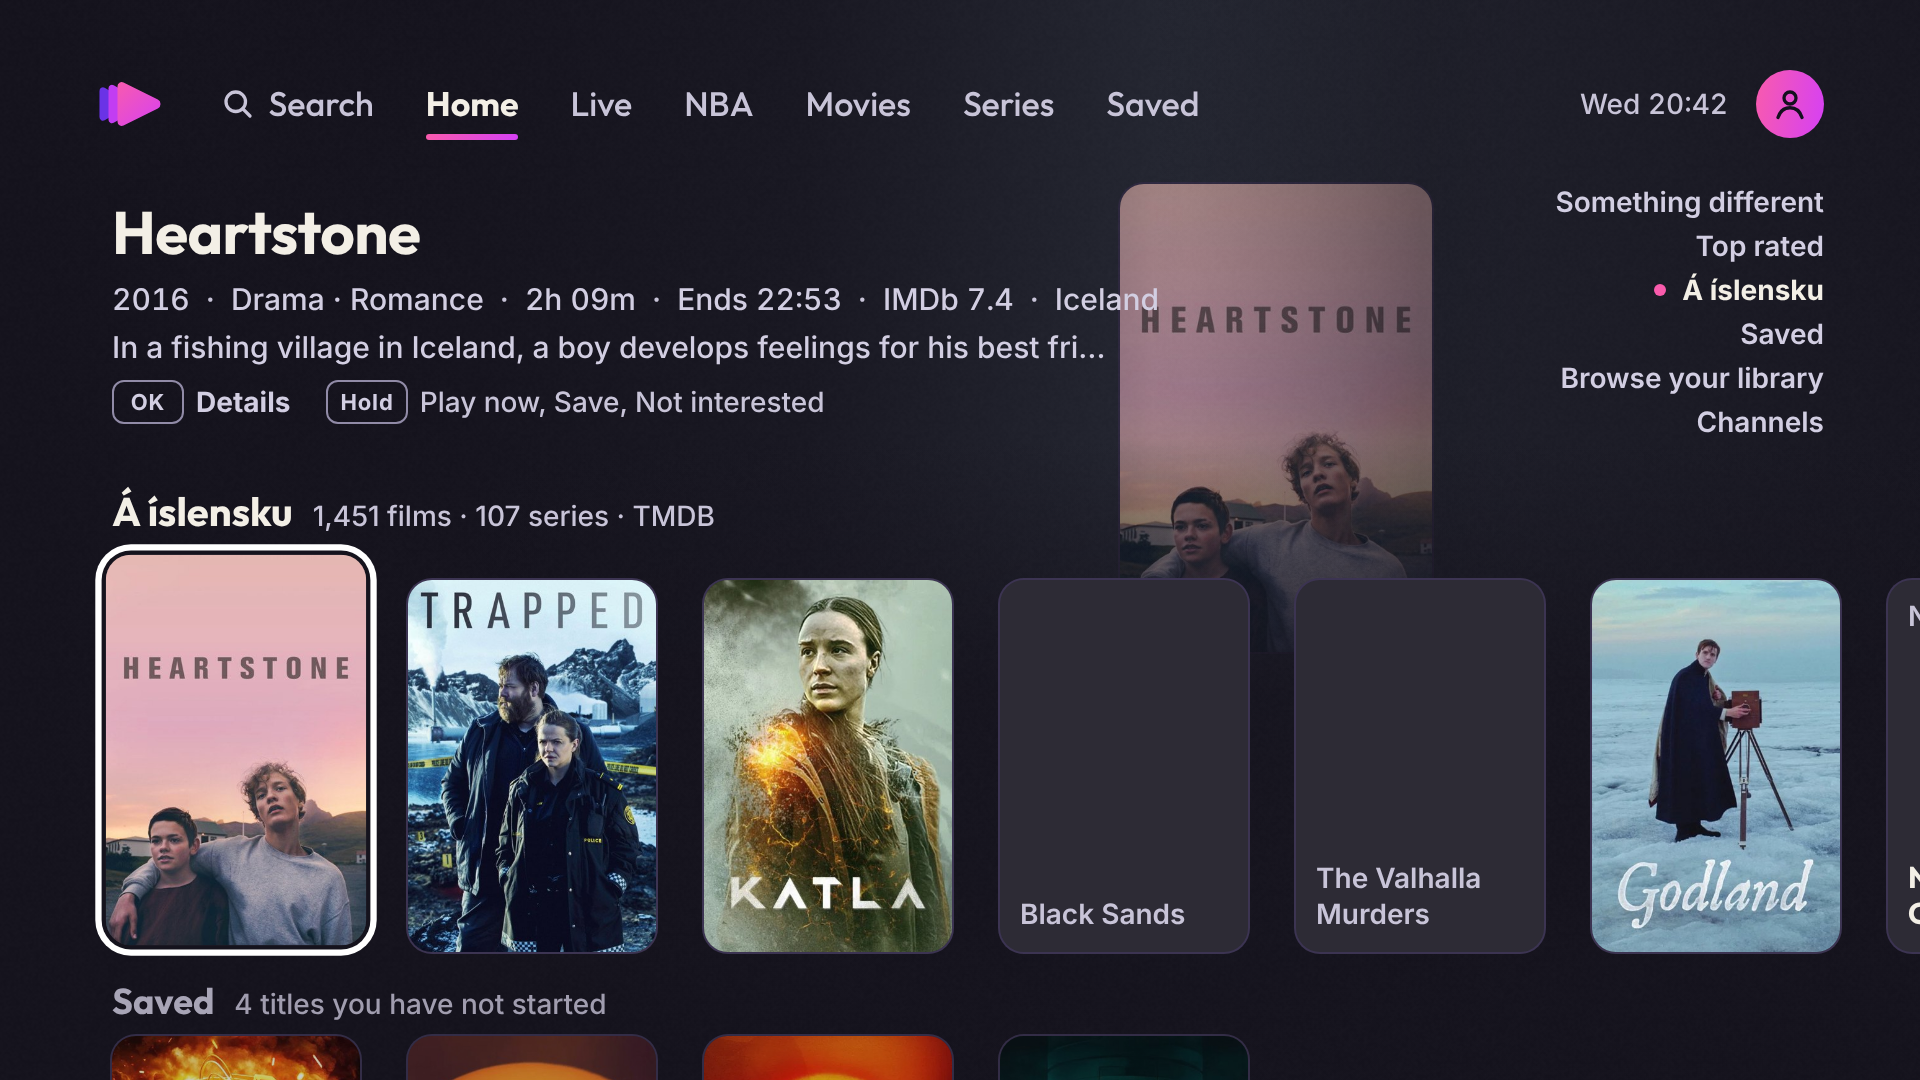
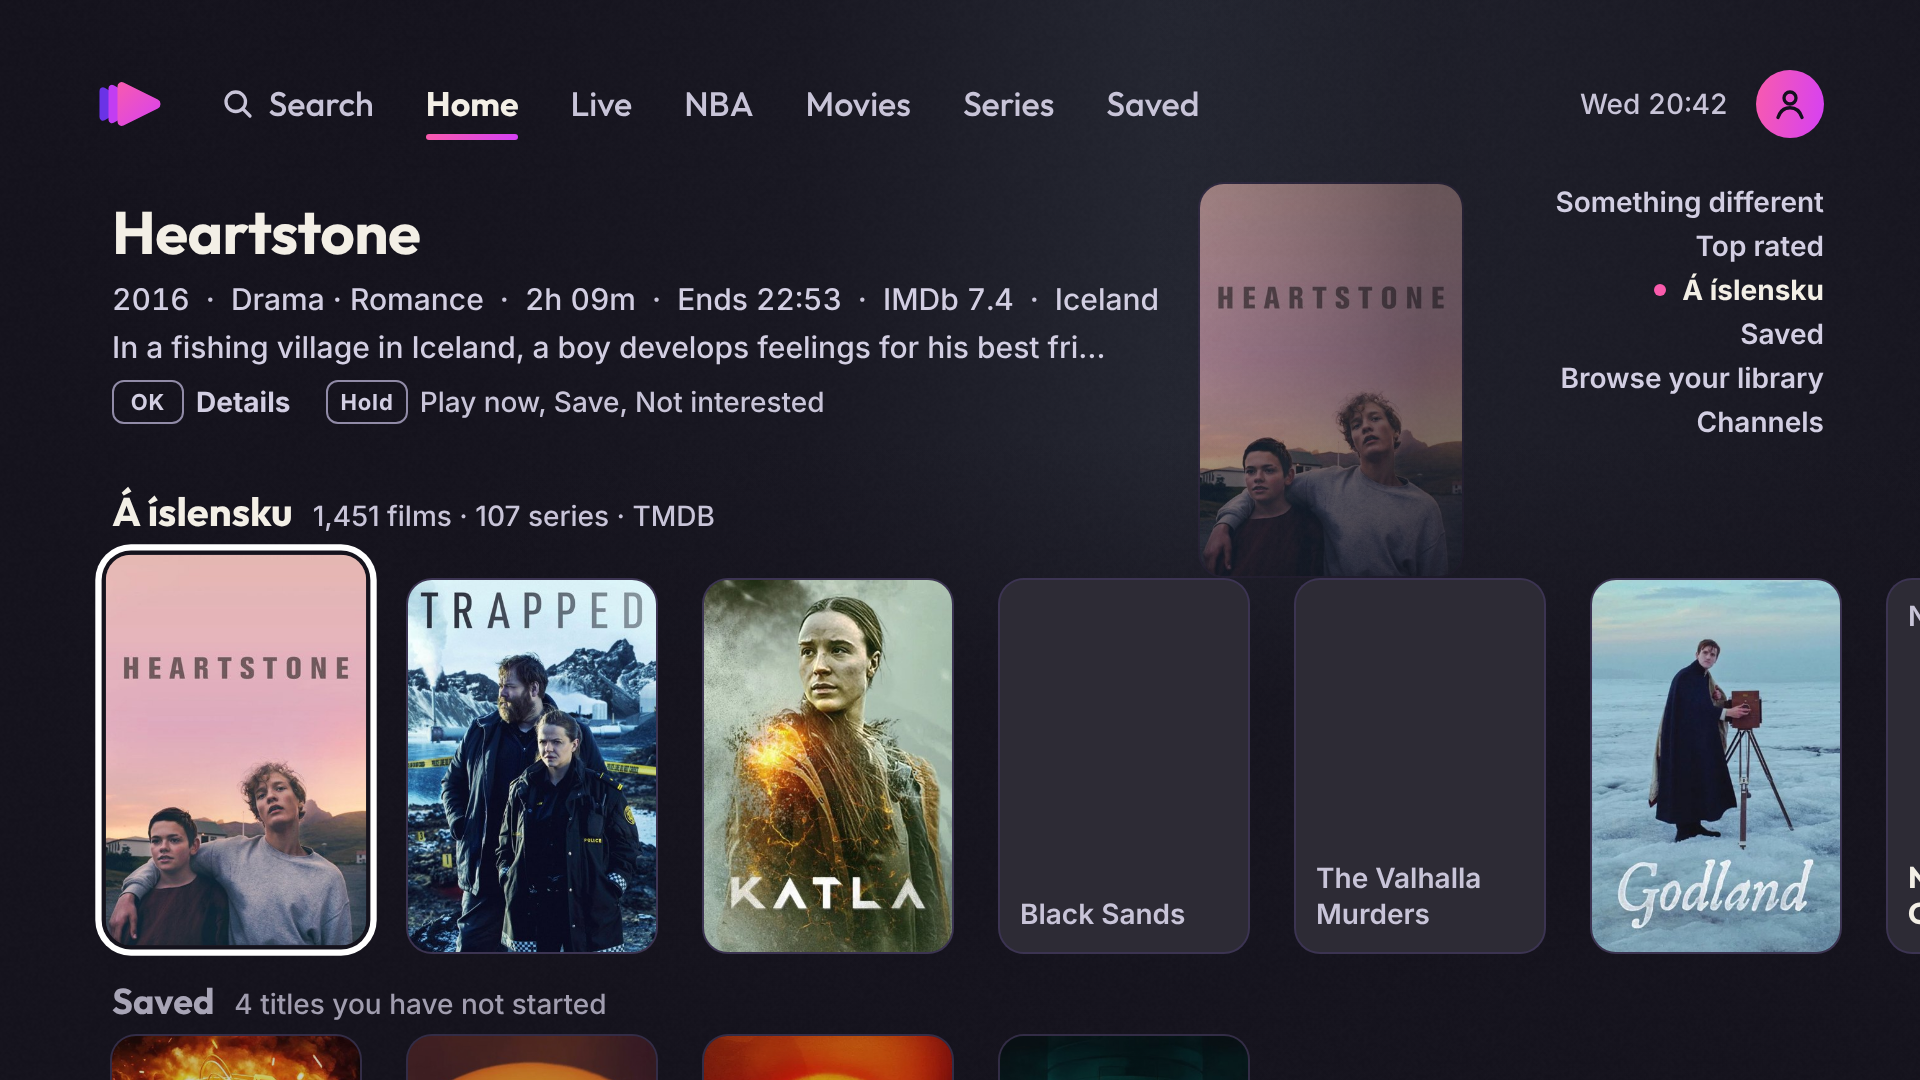
Home final v1.1: the upright poster of a title without a backdrop sits clear of the facts and the row

Changed region(s): [[0.5625, 0.1528, 0.7812, 0.55]]

diff --git a/design/ui-v1/home-final/home-final.css b/design/ui-v1/home-final/home-final.css
@@ -102,7 +102,7 @@ html, body { margin: 0; width: 960px; height: 540px; overflow: hidden; backgroun
 .flat .prog .bar i { display: block; height: 100%; width: var(--p); background: var(--a-text-1); }
 .flat .next { position: absolute; left: 620px; top: 280px; font: 500 14px/20px var(--a-font-text); color: var(--a-text-3); }
 .flat .next b { color: var(--a-text-2); font-weight: 600; display: block; }
-.pst { position: absolute; left: 560px; top: 92px; width: 156px; height: 234px; border-radius: 12px; overflow: hidden; box-shadow: 0 0 0 1px var(--a-border); }
+.pst { position: absolute; left: 600px; top: 92px; width: 131px; height: 196px; border-radius: 12px; overflow: hidden; box-shadow: 0 0 0 1px var(--a-border); }
 .pst img { width: 100%; height: 100%; object-fit: cover; display: block; }
 
 /* ---- the rows state ---- */
